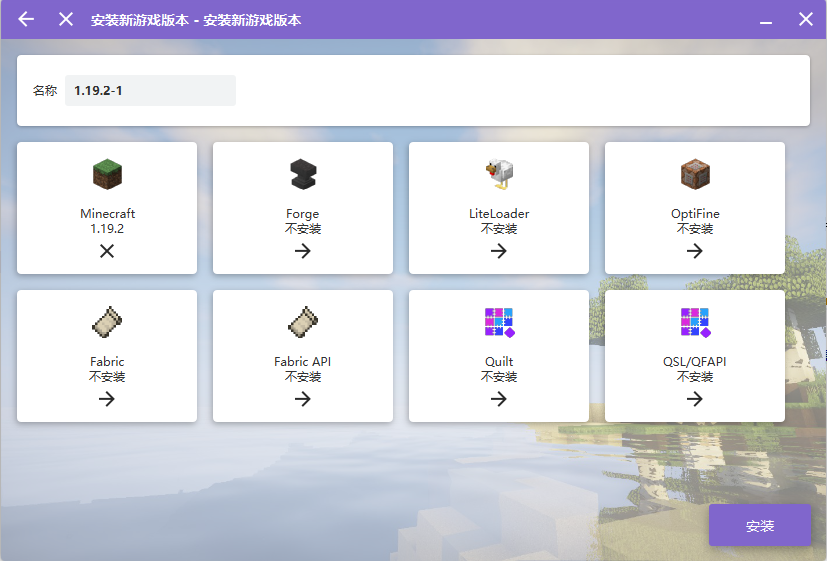
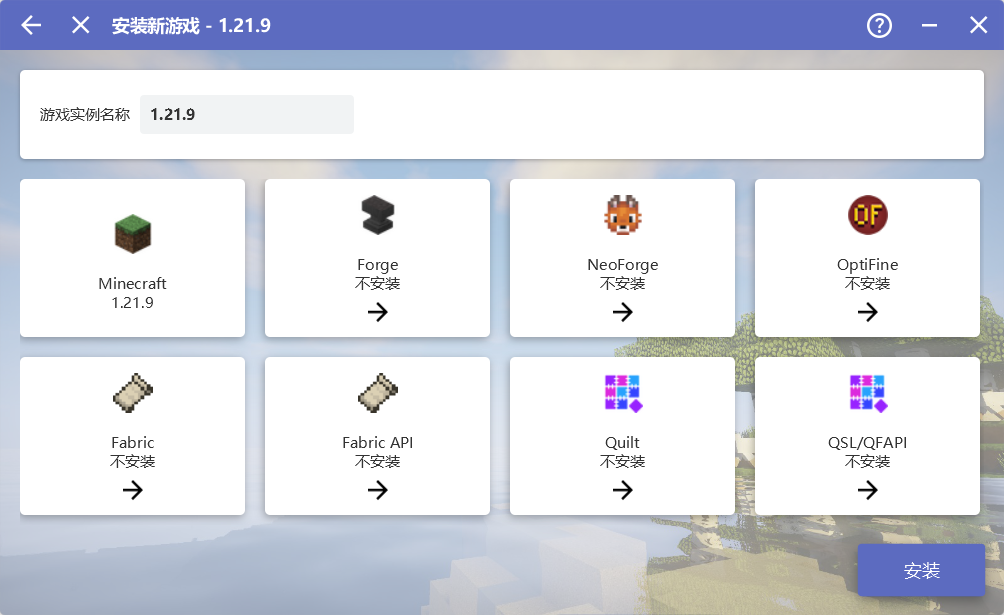
更新"自动安装与模组下载简介" (#310)

diff --git a/_launcher/auto-installing.md b/_launcher/auto-installing.md
@@ -1,85 +1,127 @@
 ---
-title: 自动安装与模组下载简介
+title:  "自动安装与模组下载简介"
 excerpt: 安装 Forge、Fabric、LiteLoader、OptiFine 及模组的教程
-date: 2021-10-09 23:18:02 +0800
-author: asdqp233
+date:   2025-11-02 09:06:30 +0800
+author: asdqp233,Mine-diamond
 ---
 
-## 安装 Mod 加载器
+要为 Minecraft 安装模组，你首先需要安装一个“模组加载器”（例如 NeoForge 或 Fabric），然后再安装你想要的模组。HMCL 为这两个步骤都提供了强大的支持。
 
-当你在安装新的游戏客户端时候, 会看到其中有
+在安装前，最关键的一点是**兼容性**。请记住以下核心原则：
 
-`Forge, LiteLoader, Fabric, Quilt` 这 4 个 Mod 加载器可供选择。
+- 通常，你只能为单个游戏实例安装一种模组加载器。
+- 你下载的**模组**，必须同时兼容你的**游戏版本**（如 1.20.4）和**模组加载器**（如 Fabric）。
 
-以及 `Fabric API, QSL/QFAPI` 这两个随 Fabric 与 Quilt 的 API（实际是模组）可供选择。
+简单来说，为游戏安装模组总共分三步，本指南将带你逐一完成：
+1. 开启版本隔离，为模组创建一个独立干净的环境。
+2. 安装模组加载器（如 Forge, Fabric）。
+3. 安装你喜欢的模组。
+
+## 启用版本隔离
+
+在安装模组之前，必须开启版本隔离以隔离为不同实例安装的模组：
+
+在 HMCL 主界面，点击「设置」，在「全局游戏设置」选项卡中，找到「版本隔离」，点击「版本隔离」，选择「各实例独立」即可
+
+![Working_Directory](/assets/img/docs/auto-installing/Working_Directory.png)
+
+更详细的介绍见 [全局版本隔离](/_launcher/isolation.md)
+
+## 安装模组加载器  
+
+### 模组加载器简介
+
+常见的模组加载器有以下几个：
+
+`Forge`,`NeoForge`,`Fabric`,`Quilt`,`Cleanroom`,`LiteLoader` 是 6 个常见的 Mod 加载器。  
+`Fabric API`,`QSL/QFAPI` 是两个随 `Fabric` 与 `Quilt` 的官方 API（实际是模组）。
+
+
+**兼容性：**
+-  ***LiteLoader* 和 *Forge* 是兼容的 (*Forge* 较新版本和 *LiteLoader* 较老版本可能不兼容)，可以同时安装**  
+-  **其它所有模组加载器几乎互不兼容，即你无法同时安装两个模组加载器**  
+
+**Fabric与Quilt 说明：**  
+非常多的 *Fabric Mod* 需要 *Fabric API* 作为前置模组， *Quilt Mod* 需要 *QSL/QFAPI* 作为前置模组。  
+在安装 *Fabric* 或 *Quilt* 加载器时候如果没有其它原因，建议安装 *Fabric API* 或 *QSL/QFAPI* , 否则很多 *Fabric Mod* 或 *Quilt Mod* 则有可能无法被加载!
+
+### 安装新实例时安装模组加载器
+
+当你在安装新的游戏客户端时候, 会看到其中有该版本支持的模组加载器安装选项，点击你想安装的模组加载器（根据你想安装模组所支持的加载器进行选择）  
 
 ![AutoInstaller_ModLoader](/assets/img/docs/auto-installing/AutoInstaller_ModLoader.png)
 
-当你使用 1.14 及以上的游戏版本时, 推荐使用 *Fabric*
+- 点击你想要的加载器（如 Fabric）。
+- 在弹出的版本选择页面，若无特殊需求，**选择最新稳定版**（通常是第一个）。
+- 如果你选择 `Fabric` 或 `Quilt`，最好同时安装`Fabric API` 或 `QSL/QFAPI`。
+- 点击「安装」即可。
 
-1.14 以下的版本推荐使用 *Forge*
+### 为已有实例安装或更换模组加载器
 
-*LiteLoader* 只适用于 1.12.2 及以前的版本 (目前已停更)
+如果你想为已安装好的纯净版游戏添加加载器，或者更换、更新加载器版本：
 
-**注意：**
+1.  在 HMCL 主界面，点击「实例管理」，然后选择你想要修改的游戏实例。
+2.  在左侧菜单中，点击「自动安装」。
 
-选择完合适的Mod加载器之后就可以点击右下角的`安装`继续进行安装。
+![Auto_Install_Page](/assets/img/docs/auto-installing/Auto_Install_Page.png)
 
-**注意：**
+- **安装**：点击你想要的加载器图标（如 Forge），选择版本（推荐最新版），然后点击安装。
+- **更新**：点击已安装的加载器，选择一个更新的版本，然后点击安装。
+- **删除**：点击加载器右侧的「X」按钮即可删除。
+- **更换**：先删除旧的加载器，再安装新的。
 
-***LiteLoader* 和 *Forge* 是兼容的 (*Forge* 较新版本和 *LiteLoader* 较老版本可能不兼容)**
+> **注意**：此处的自动安装页面不支持安装 `Fabric API` 或 `QSL/QFAPI`。请将它们当作普通模组进行安装。
 
-***Fabric* 和 *Forge* 不兼容!**
 
-**如果选择 *Fabric* , 那么建议同时选择 *Fabric API***
+## 安装模组
 
-**如果选择 *Quilt* ，那么建议同时选择 *QSL/QFAPI***
+安装好加载器后，就可以开始添加模组了。你可以在下列网站获取模组信息，并在 HMCL 内下载和安装：
+- [MC 百科](https://www.mcmod.cn/) - 中文社区，资料详尽。
+- [CurseForge](https://www.curseforge.com/minecraft/search?class=mc-mods) - 最大的模组发布站之一。
+- [Modrinth](https://modrinth.com/mods) - 新兴的现代化模组发布站。
 
-## 安装 Mod
+在安装任何模组前，请先确认三件事：
+1.  **游戏版本**：模组是否支持你当前的游戏版本？(例如, 1.20.4)
+2.  **加载器类型**：模组是给 Forge、Fabric 还是其它模组加载器用的？
+3.  **前置模组**：模组是否需要其他模组作为前置？（模组页面通常会说明）
 
-### 自动安装
+### 自动安装 (推荐)
 
-#### Forge Mod
+HMCL 内置了 CurseForge 和 Modrinth 的搜索和下载功能，非常方便。
 
-HMCL 内置了 CurseForge 和 Modrinth 下载源的搜索和下载功能, 目前已支持中文搜索 (匹配结果不一定准确) 。
+1.  在 HMCL 主界面，点击「下载」->「模组」。
+2.  在搜索框输入模组名（支持中英文），然后点击搜索。如果搜不到，可以尝试切换右上角的下载源。
+3.  点击你想要的模组，进入版本列表页面。
+4.  根据**游戏版本**和**加载器**，找到你需要的版本，点击并选择「安装到当前实例」。
+5.  如果该模组有前置，HMCL 会自动提示，请先安装所有前置模组（但是请不要重复安装前置模组）。
 
-点开 Mod 下载页面, 最上方会显示当前 Mod 需要的前置 Mod (如果有) , 以及 Mod 支持的全部版本, 请根据你当前安装的游戏版本选择恰当的版本。
+注：点击模组下载页面 上方的蓝色的链接可以到对应的网站查看模组的信息，这会告诉你模组的功能和有可能会提示你一些注意事项
 
-**注意: 请区分 *Forge Mod* 和 *Fabric Mod* , 大部分 Mod 在文件名中会注明, 请不要选择错误, 否则 Mod 将无法被正确加载。**
-
-**建议点击上方的蓝色的 模组详情链接 查看模组的信息，这有可能会提示你些什么注意事项**
+**注意: 请查看你要下载的模组是否正常你要安装的游戏版本以及模组加载器，否则模组无法被正常加载!**
 
 ![AddingModAutomatically](/assets/img/docs/auto-installing/AutoInstaller_ModAutoAdding.png)
 
-#### Fabric Mod / Quilt Mod
+### 安装OptiFine 或其它光影模组
 
-*Fabric Mod* 和 *Quilt Mod* 的安装和 *Forge Mod* 的安装类似, [参照上文](#forge-mod)。
-
-**注意：**
-
-- **几乎所有的 *Fabric Mod* 或 *Quilt Mod* 都需要 *Fabric API* 或 *QSL/QFAPI*。在安装 Mod 加载器时候如果没有选择, 请选择安装 *Fabric API* 或 *QSL/QFAPI* , 否则 *Fabric Mod* 或 *Quilt Mod* 则有可能无法被加载!**
-
-- ***Fabric* 对应 *Fabric API* ，*Quilt Mod* 对应 *QSL/QFAPI* ，请不要搞错。**
-
-#### LiteLoader Mod
-
-*LiteLoader Mod* 安装和 *Forge Mod* 的安装类似, [参照上文](#forge-mod)。
-
-**注意: LiteLoader 只能加载文件后缀为 litemod 的模组, *Forge Mod*、*Fabric Mod* 和 *Quilt Mod*等修改后缀的方法 LiteLoader 是无法检测。**
-
-#### OptiFine
-
-[详情请查阅此](/_launcher/shader.md)
+光影的安装方式略有不同，请参考专门的指南 [光影安装](/_launcher/shader.md)
 
 ### 手动安装
 
-一般的 Mod 文件后缀为 `jar` 或者 `litemod` 。
+当你在网站或其它位置手动下载了模组文件，你可以参照以下步骤完成安装：
 
-将这个 jar 文件复制到 `\.minecraft\Mods` 文件夹中即可 (没有这个文件夹就自己新建一个) 。
+一般的 Mod 文件后缀为 `jar` 或者 `litemod`，请确认后缀是正确的。其中`jar`为大多数模组加载器支持的格式，`litemod`仅`LiteLoader`支持。  
 
-若开启了版本隔离, 那么文件夹是`\.minecraft\version\<版本名称>\Mods`。
+#### 通过模组管理页面
 
-或者在 HMCL 的 `游戏管理页面—模组管理` 页面点击添加模组或直接将文件拖入启动器窗口。
+1.  进入「实例管理」-> 选择你的游戏实例 ->「模组管理」。
+2.  点击「添加模组」并选择你的模组文件，或直接将文件拖拽到窗口内即可。  
+
+#### 通过模组文件夹安装
+
+1.  进入「实例管理」-> 选择你的游戏实例 ->「浏览」->「模组文件夹」。
+2.  这会打开该实例的 `mods` 文件夹。
+3.  将你下载的 `.jar` 模组文件复制或移动到这个文件夹里。
+    （如果 `mods` 文件夹不存在，请自行创建一个。）
 
 ![AddingModManually](/assets/img/docs/auto-installing/AutoInstaller_ModManualAdding.png)
 
@@ -87,10 +129,51 @@ HMCL 内置了 CurseForge 和 Modrinth 下载源的搜索和下载功能, 目前
 
 造成游戏报错的原因有很多, 比如 Mod 之间不兼容, Fabric API 的版本过高, 缺少前置 Mod 等等。
 
-1. 新版本的 HMCL 拥有错误分析功能, 可以根据HMCL的提示来排查原因。
+**第一步：基础检查（最常见问题）**
+- **查看 HMCL 错误报告**：新版 HMCL 会直接提示大部分常见错误，这是你的首选信息来源。
+- **检查兼容性**：确认模组版本、游戏版本、模组加载器三者是否匹配。
+- **检查前置模组**：是否忘记安装必要的API（如 Fabric API）或其他前置模组？
 
-2. 也可以使用二分法来解决——每次加入 / 删除一半的 Mod , 挨个排除, 直到找到导致游戏报错的 Mod 为止。
+**第二步：自己排查**
+- **使用“二分法”**：在“模组管理”页面，先禁用一半的模组，看游戏能否启动或出错。如果可以，说明问题出在被禁用的那一半里。不断重复此过程，直到找到引发问题的具体模组。
+- **查看日志文件**：如果你有能力，可以自行查看游戏日志来定位问题。
 
-3. 如果你的能力很优秀, 也可以直接查看游戏日志来找出问题的原因。
+**第三步：有效求助**
+如果无法自行解决，你需要向社区求助。但请记住，一个有效的求助包含**完整的日志文件**。
 
-4. 如果无法理解日志内容, 那么请将 `\.minecraft\crash-reports` 和 `\.minecraft\logs` 文件夹打包发给其他人寻求帮助。
+**如何正确求助**：
+1. 在游戏崩溃后，点击 HMCL 弹出的错误窗口上的「**导出游戏日志**」按钮，它会生成一个 `minecraft-exported-crash-info-时间戳.zip` 文件。
+2. 带着**这个文件**去社区、论坛或群里提问，并具体描述你遇到的问题。
+
+> **重要**：对于向他人求助，千万不要只截图，不要只说“游戏出错怎么办”这种及其笼统的话语。**没有日志，谁也帮不了你。**
+
+![CrashReportPage](/assets/img/docs/auto-installing/Crash_Report_Page.png)
+
+
+## 补充：常见模组加载器简单介绍和支持版本一览  
+
+模组加载器简单介绍：  
+
+| 模组加载器 | 简单介绍 |
+| --------- | ------- |
+| <span style="white-space: nowrap;"><img src="/assets/img/docs/auto-installing/forge.png" alt="Forge icon" width="16"> Forge</span> | 老牌的模组加载器，功能强大，支持的模组众多，推荐在1.21之前安装。 |
+| <span style="white-space: nowrap;"><img src="/assets/img/docs/auto-installing/neoforge.png" alt="NeoForge icon" width="16"> NeoForge</span> | 1.20.1后Forge的继任者，推荐在1.21版本后安装NeoForge。 |
+| <span style="white-space: nowrap;"><img src="/assets/img/docs/auto-installing/fabric.png" alt="Fabric icon" width="16"> Fabric</span> | 轻型模组加载器，非常适合安装优化模组或纯净生存增强类模组。 |
+| <span style="white-space: nowrap;"><img src="/assets/img/docs/auto-installing/quilt.png" alt="Quilt icon" width="16"> Quilt</span> | Fabric的一个分支，同样轻量。 |
+| <span style="white-space: nowrap;"><img src="/assets/img/docs/auto-installing/fabric.png" alt="Fabric api icon" width="16"> Fabric API</span><br><span style="white-space: nowrap;"><img src="/assets/img/docs/auto-installing/quilt.png" alt="QSL/QFAPI icon" width="16"> QSL/QFAPI</span> | 由于`Fabric`和`Quilt`比较轻功能有限，因此提供了增强功能的api，很多模组依赖于此api。 |
+| <span style="white-space: nowrap;"><img src="/assets/img/docs/auto-installing/cleanroom.png" alt="Cleanroom icon" width="16"> Cleanroom</span> | 1.12.2版本Forge的一个优化代替，提供了相对更强的功能，仅支持1.12.2。 |
+| <span style="white-space: nowrap;"><img src="/assets/img/docs/auto-installing/chicken.png" alt="LiteLoader icon" width="16"> LiteLoader</span> | 轻量模组加载器，为Forge的轻量代替，现在已停止维护。 |
+
+
+支持版本一览：  
+
+| 模组加载器  | 最老版本| 最新版本    |
+| ---------- | ------ | ------      |
+| <img src="/assets/img/docs/auto-installing/forge.png" alt="Forge icon" width="16"> Forge      | 1.5.2  | 游戏最新版本 |
+| <img src="/assets/img/docs/auto-installing/neoforge.png" alt="NeoForge icon" width="16"> NeoForge   | 1.20.1 | 游戏最新版本 |
+| <img src="/assets/img/docs/auto-installing/fabric.png" alt="Fabric icon" width="16"> Fabric     | 1.16.3 | 游戏最新版本 |
+| <img src="/assets/img/docs/auto-installing/fabric.png" alt="Fabric api icon" width="16"> Fabric api | 1.16.3 | 游戏最新版本 |
+| <img src="/assets/img/docs/auto-installing/quilt.png" alt="Quilt icon" width="16"> Quilt        | 1.16.3 | 游戏最新版本 |
+| <img src="/assets/img/docs/auto-installing/quilt.png" alt="QSL/QFAPI icon" width="16"> QSL/QFAPI  | 1.18.2 | 1.21        |
+| <img src="/assets/img/docs/auto-installing/cleanroom.png" alt="Cleanroom icon" width="16"> Cleanroom  | 1.12.2 |             |
+| <img src="/assets/img/docs/auto-installing/chicken.png" alt="LiteLoader icon" width="16"> LiteLoader | 1.5.2  | 1.12.2      |
